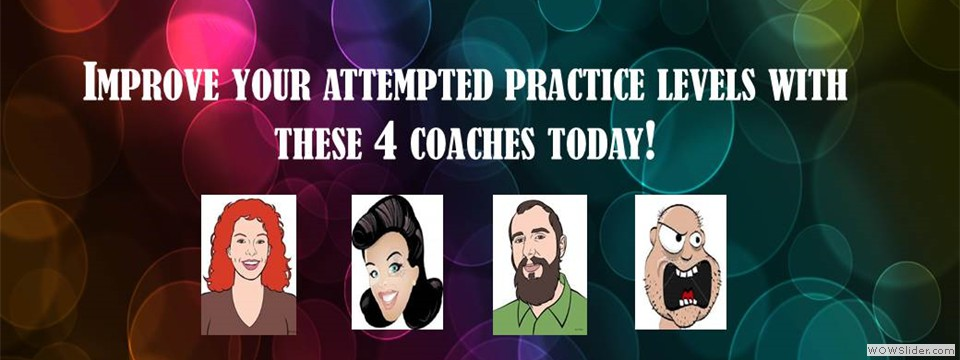
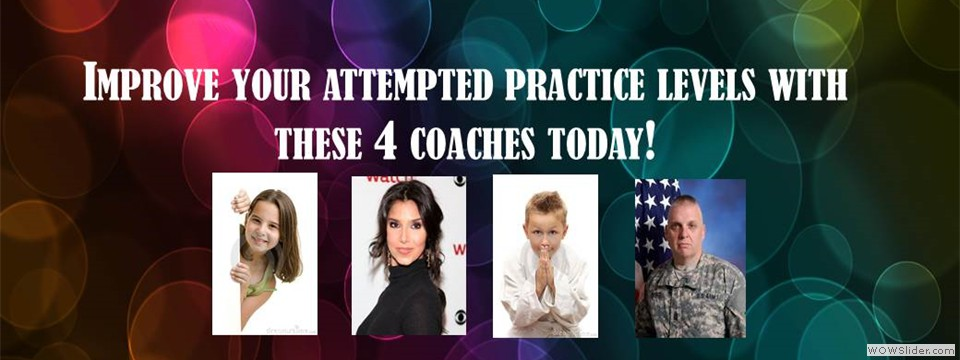
Updated new home page
Added a screen for Events in slider and included description of
SingPath(still need to center)

Changed region(s): [[0.1875, 0.4583, 0.625, 0.9472], [0.6562, 0.4889, 0.7812, 0.9472]]

diff --git a/app/engine1/style.css b/app/engine1/style.css
@@ -1,15 +1,15 @@
 /*
  *	generated by WOW Slider 4.8
- *	template Elegant
+ *	template Elemental
  */
-@import url("http://fonts.googleapis.com/css?family=Source+Sans+Pro&subset=latin,latin-ext");
+
 #wowslider-container1 { 
 	zoom: 1; 
 	position: relative; 
 	max-width:960px;
 	margin:0px auto 0px;
 	z-index:90;
-	border:1px solid #3399FF;
+	border:none;
 	text-align:left; /* reset align=center */
 }
 * html #wowslider-container1{ width:960px }
@@ -80,59 +80,62 @@
 	position:absolute;
 }
 
+
 #wowslider-container1  .ws_bullets { 
-	padding: 10px; 
+	padding: 9px; 
 }
 #wowslider-container1 .ws_bullets a { 
-	margin-left:6px;
-	width:13px;
-	height:13px;
+	width:11px;
+	height:11px;
 	background: url(./bullet.png) left top;
 	float: left; 
 	text-indent: -4000px; 
 	position:relative;
+	margin-left:5px;
 	color:transparent;
 }
-#wowslider-container1 .ws_bullets a.ws_selbull, #wowslider-container1 .ws_bullets a:hover{
+#wowslider-container1 .ws_bullets a:hover{
+	background-position: 0 50%;
+}
+#wowslider-container1 .ws_bullets a.ws_selbull{
 	background-position: 0 100%;
 }
 #wowslider-container1 a.ws_next, #wowslider-container1 a.ws_prev {
 	position:absolute;
-	display:none;
+	display:block;
 	top:50%;
-	margin-top:-21px;
+	margin-top:-20px;
 	z-index:60;
-	height: 32px;
-	width: 32px;
+	height: 45px;
+	width: 45px;
 	background-image: url(./arrows.png);
+	opacity: 0.8;	
 }
 #wowslider-container1 a.ws_next{
 	background-position: 100% 0;
-	right:5px;
+	right:21px;
 }
 #wowslider-container1 a.ws_prev {
-	left:5px;
+	left:21px;
 	background-position: 0 0; 
 }
 #wowslider-container1 a.ws_next:hover{
-	background-position: 100% 100%;
+	opacity: 1;
 }
 #wowslider-container1 a.ws_prev:hover {
-	background-position: 0 100%; 
-}
-* html #wowslider-container1 a.ws_next,* html #wowslider-container1 a.ws_prev{display:block}
-#wowslider-container1:hover a.ws_next, #wowslider-container1:hover a.ws_prev {display:block}
+	opacity: 1;
+}  
 
 /*playpause*/
 #wowslider-container1 .ws_playpause {
 	display:none;
-    width: 32px;
-    height: 32px;
+    width: 45px;
+    height: 45px;
     position: absolute;
     top: 50%;
     left: 50%;
-    margin-left: -16px;
-    margin-top: -16px;
+    margin-left: -20px;
+    margin-top: -20px;
     z-index: 59;
 }
 
@@ -152,46 +155,58 @@
     background-position: 100% 100% !important;
 }/* bottom center */
 #wowslider-container1  .ws_bullets {
-	bottom:-5px;
+    bottom: 0px;
 	left:50%;
 }
 #wowslider-container1  .ws_bullets div{
 	left:-50%;
 }
-/* default */
 #wowslider-container1 .ws-title{
-	position: absolute;
-	bottom:25px;
+	position:absolute;
+	display:block;
+	bottom: 17px;
 	left: 0px;
-	margin-right:5px;
-	z-index: 50;
-	padding:12px;
-	color: #3399FF;
+	margin: 9px;
+	margin-left: 0px;
+	margin-right: 9px; 
+	padding:8px;
 	background:#FFFFFF;
-    font-family: 'Source Sans Pro',Arial,sans-serif;
-	font-size: 25px;
-	line-height: 28px;
-	font-weight: normal;
-	border-radius:0;
+	color:#5D5D5D;
+	z-index: 50;
+	font-family:'Open Sans',Arial,Helvetica,sans-serif;
+	font-size: 18px;
+	border-radius:5px;
+	-moz-border-radius:0 10px 10px 0;
+	border-radius:0 10px 10px 0;   
 	opacity:0.8;
 	filter:progid:DXImageTransform.Microsoft.Alpha(opacity=90);	
-	
+	-moz-box-shadow: 0 0 2px #5D5D5D;
+    box-shadow: 0 0 2px #5D5D5D; 
 }
 #wowslider-container1 .ws-title div{
 	padding-top:5px;
-	font-size: 18px;
-	line-height: 21px;
-	color: #8699A9;
+	font-size: 14px;
 }
 #wowslider-container1 .ws_images ul{
-	animation: wsBasic 12s infinite;
-	-moz-animation: wsBasic 12s infinite;
-	-webkit-animation: wsBasic 12s infinite;
+	animation: wsBasic 18s infinite;
+	-moz-animation: wsBasic 18s infinite;
+	-webkit-animation: wsBasic 18s infinite;
 }
-@keyframes wsBasic{0%{left:-0%} 16.67%{left:-0%} 33.33%{left:-100%} 50%{left:-100%} 66.67%{left:-200%} 83.33%{left:-200%} }
-@-moz-keyframes wsBasic{0%{left:-0%} 16.67%{left:-0%} 33.33%{left:-100%} 50%{left:-100%} 66.67%{left:-200%} 83.33%{left:-200%} }
-@-webkit-keyframes wsBasic{0%{left:-0%} 16.67%{left:-0%} 33.33%{left:-100%} 50%{left:-100%} 66.67%{left:-200%} 83.33%{left:-200%} }
+@keyframes wsBasic{0%{left:-0%} 13.89%{left:-0%} 25%{left:-100%} 38.89%{left:-100%} 50%{left:-200%} 63.89%{left:-200%} 75%{left:-300%} 88.89%{left:-300%} }
+@-moz-keyframes wsBasic{0%{left:-0%} 13.89%{left:-0%} 25%{left:-100%} 38.89%{left:-100%} 50%{left:-200%} 63.89%{left:-200%} 75%{left:-300%} 88.89%{left:-300%} }
+@-webkit-keyframes wsBasic{0%{left:-0%} 13.89%{left:-0%} 25%{left:-100%} 38.89%{left:-100%} 50%{left:-200%} 63.89%{left:-200%} 75%{left:-300%} 88.89%{left:-300%} }
 
+#wowslider-container1 .ws_images  img{
+    border-radius: 4px; 
+	-moz-border-radius:4px;
+	-webkit-border-radius:4px;
+
+}
+#wowslider-container1 .ws_effect img{
+	border-radius: 4px;
+	-moz-border-radius:4px;
+	-webkit-border-radius:4px;
+}
 #wowslider-container1 .ws_bullets  a img{
 	text-indent:0;
 	display:block;
@@ -199,7 +214,11 @@
 	left:-64px;
 	visibility:hidden;
 	position:absolute;
-    border: 1px solid #FFFFFF;
+    -moz-box-shadow: 0 1px 3px rgba(0, 0, 0, 0.4);
+	box-shadow: 0 1px 3px rgba(0, 0, 0, 0.4);
+    border: 4px solid #FFF;
+	border-radius:5px;
+	-moz-border-radius:5px;
 	max-width:none;
 }
 #wowslider-container1 .ws_bullets a:hover img{
@@ -216,23 +235,27 @@
 	overflow:hidden;
 	position:relative;
 	width:128px;
-	background-color:#FFFFFF;
+	background-color:#FFF;
 }
 #wowslider-container1  .ws_bullets .ws_bulframe{
 	display:none;
-	bottom:20px;
+	bottom:18px;
 	overflow:visible;
 	position:absolute;
 	cursor:pointer;
-    border: 1px solid #FFFFFF;
+    -moz-box-shadow: 0 1px 3px rgba(0, 0, 0, 0.4);
+	box-shadow: 0 1px 3px rgba(0, 0, 0, 0.4);
+    border: 4px solid #FFF;
+	border-radius:5px;
+	-moz-border-radius:5px;
 }
 #wowslider-container1 .ws_bulframe span{
 	display:block;
 	position:absolute;
-	bottom:-8px;
-	margin-left:-1px;
+	bottom:-10px;
+	margin-left:-6px;
 	left:64px;
 	background:url(./triangle.png);
-	width:13px;
-	height:7px;
+	width:15px;
+	height:6px;
 }

diff --git a/app/partials/home2.html b/app/partials/home2.html
@@ -7,29 +7,37 @@
 <div><h2><center>Welcome to Singpath!</center></h2></div>
 
 
-<div style="background-color:#d7d7d7">
+<body style="background-color:#d7d7d7">
   <!-- Start WOWSlider.com BODY section -->
   <div id="wowslider-container1">
   <div class="ws_images"><ul>
-    <li><a href="/app/index.html#/quests"><img src="data1/images/slide1.jpg" alt="Gotta Try A Quest!" title="Gotta Try A Quest!" id="wows1_0"/></a>Challenge yourself today!</li>
-    
-    <li><a href="/app/index.html#/ymbcoaching"><img src="data1/images/slide2.jpg" alt="Mastery Based Coaching" title="Mastery Based Coaching" id="wows1_1"/></a>Improve yourself today!</li>
-    
-    <li><a href="/app/index.html#/purposedriven"><img src="data1/images/slide3.jpg" alt="Purpose Driven" title="Purpose Driven" id="wows1_2"/></a>Get motivated!</li>
-  </ul></div>
-
+<li><a href="/app/index.html#/events"><img src="data1/images/slide4.jpg" alt="Upcoming Events!" title="Upcoming Events!" id="wows1_0"/></a>Interested to join? Or want to come watch? RSVP here!</li>
+<li><a href="/app/index.html#/quests"><img src="data1/images/slide1.jpg" alt="Gotta Try A Quest!" title="Gotta Try A Quest!" id="wows1_1"/></a>Challenge yourself today!</li>
+<li><a href="/app/index.html#/ymbcoaching"><img src="data1/images/slide2.jpg" alt="Mastery Coaching" title="Mastery Coaching" id="wows1_2"/></a>Improve yourself today!</li>
+<li><a href="/app/index.html#/purposedriven"><img src="data1/images/slide3.jpg" alt="Purpose Driven" title="Purpose Driven" id="wows1_3"/></a>Get motivated!</li>
+</ul></div>
 
 <div class="ws_bullets"><div>
-  <a href="/app/index.html#/quests" title="Gotta Try A Quest!"><img src="data1/tooltips/slide1.jpg" alt="Gotta Try A Quest!"/>1</a>
-  <a href="/app/index.html#/ymbcoaching" title="Mastery Based Coaching"><img src="data1/tooltips/slide2.jpg" alt="Mastery Based Coaching"/>2</a>
-  <a href="/app/index.html#/purposedriven" title="Purpose Driven"><img src="data1/tooltips/slide3.jpg" alt="Purpose Driven"/>3</a>
-  </div></div>
+<a href="#" title="Upcoming Events!"><img src="data1/tooltips/slide4.jpg" alt="Upcoming Events!"/>1</a>
+<a href="#" title="Gotta Try A Quest!"><img src="data1/tooltips/slide1.jpg" alt="Gotta Try A Quest!"/>2</a>
+<a href="#" title="Mastery Coaching"><img src="data1/tooltips/slide2.jpg" alt="Mastery Coaching"/>3</a>
+<a href="#" title="Purpose Driven"><img src="data1/tooltips/slide3.jpg" alt="Purpose Driven"/>4</a>
+</div></div>
 
-  <span class="wsl"><a href="http://wowslider.com">Picture Slideshow</a> by WOWSlider.com v4.8</span>
-    <div class="ws_shadow"></div>
-</div>
+<span class="wsl"><a href="http://wowslider.com">Picture Slideshow</a> by WOWSlider.com v4.8</span>
+  <div class="ws_shadow"></div>
+  </div>
 
   <script type="text/javascript" src="engine1/wowslider.js"></script>
   <script type="text/javascript" src="engine1/script.js"></script>
   <!-- End WOWSlider.com BODY section -->
-  
+                                    
+                  <div><h3><center>What is Singpath?</center></h3></div>
+                   <p style="font-family:Sans-Serif">
+                    <h6><center>
+                      SingPath is the most FUN way to practice software languages! SingPath provides a platform to those that want to test their programming skills in a competitive and fun environment. There is a range of programming languages that you can test your skills with including Python, JavaScript, Ruby, Objective C and Java with many other languages to come. Specialize in one language or show your flexibility and skill by coding in multiple languages.What are you waiting for? Sign in today and follow your chosen Path!                                     
+                    </center></h6>
+                  </p>                                                                        
+                                     
+                     
+                     

diff --git a/app/engine1/script.js b/app/engine1/script.js
@@ -8,7 +8,7 @@
 // Obfuscated by Javascript Obfuscator
 // http://javascript-source.com
 //***********************************************
-function ws_stack(d,a,b){var e=jQuery;var c=e("li",b);this.go=function(k,h,n,m){var g=c.length>2?(k-h+1)%c.length:1;if(Math.abs(n)>=1){g=(n>0)?0:1}g=!!g^!!d.revers;var i=(d.revers?-1:1)+"00%";var j=e("ul",b);var l=document.all?0:"0%";var f=e(c.get(g?k:h)).clone().css({position:"absolute","z-index":4,width:"100%",top:0,left:((g?i:l))});if(g){f.appendTo(b)}else{f.insertAfter(j)}if(!g){j.hide().css({left:-k+"00%"});if(d.fadeOut){j.stop(true,true).fadeIn(d.duration)}else{j.show()}}else{if(d.fadeOut){j.fadeOut(d.duration)}}f.animate({left:(g?l:i)},d.duration,"easeInOutExpo",function(){if(g){j.css({left:-k+"00%"}).stop(true,true).show()}e(this).remove()});return k}};// -----------------------------------------------------------------------------------
+function ws_basic(c,a,b){this.go=function(d){b.find("ul").stop(true).animate({left:(d?-d+"00%":(/Safari/.test(navigator.userAgent)?"0%":0))},c.duration,"easeInOutExpo");return d}};// -----------------------------------------------------------------------------------
 // http://wowslider.com/
 // JavaScript Wow Slider is a free software that helps you easily generate delicious 
 // slideshows with gorgeous transition effects, in a few clicks without writing a single line of code.
@@ -18,4 +18,4 @@ function ws_stack(d,a,b){var e=jQuery;var c=e("li",b);this.go=function(k,h,n,m){
 // Obfuscated by Javascript Obfuscator
 // http://javascript-source.com
 //***********************************************
-jQuery("#wowslider-container1").wowSlider({effect:"stack",prev:"",next:"",duration:20*100,delay:20*100,width:960,height:360,autoPlay:true,playPause:true,stopOnHover:false,loop:false,bullets:true,caption:true,captionEffect:"slide",controls:true,onBeforeStep:0,images:0});
+jQuery("#wowslider-container1").wowSlider({effect:"basic",prev:"",next:"",duration:20*100,delay:25*100,width:960,height:360,autoPlay:true,playPause:true,stopOnHover:false,loop:false,bullets:true,caption:true,captionEffect:"slide",controls:true,onBeforeStep:0,images:0});

diff --git a/app/iframe_indexhome2.html b/app/iframe_indexhome2.html
@@ -1,0 +1,3 @@
+<!-- Start WOWSlider.com -->
+<iframe src="indexhome2.html" style="width:960px;height:360px;max-width:100%;overflow:hidden;border:none;padding:0;margin:0 auto;display:block;" marginheight="0" marginwidth="0"></iframe>
+<!-- End WOWSlider.com -->
